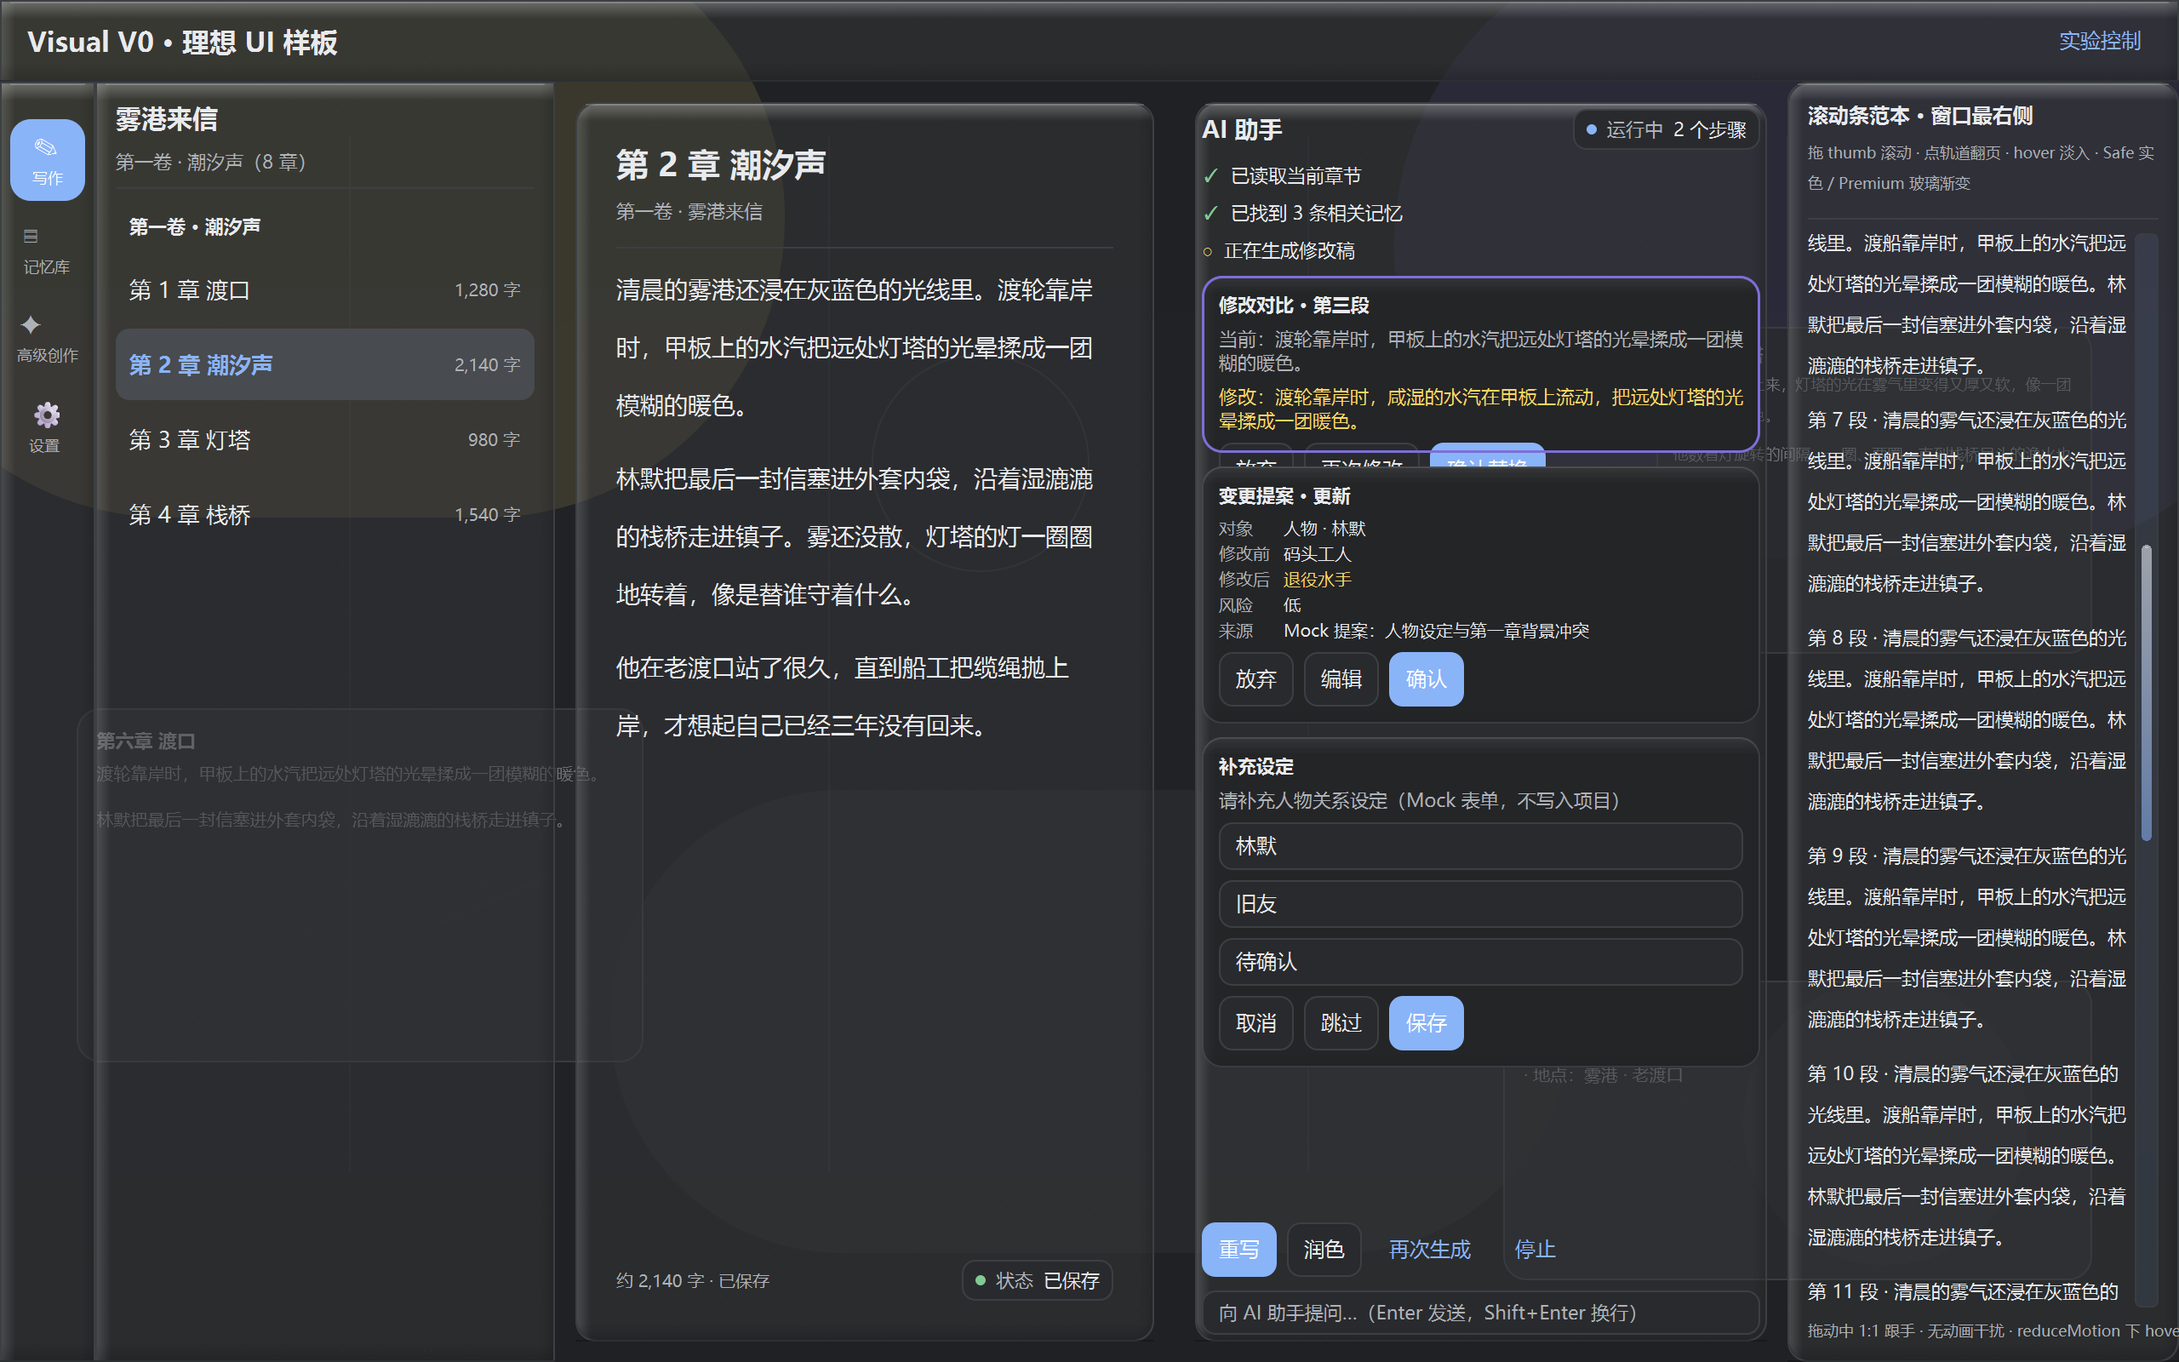
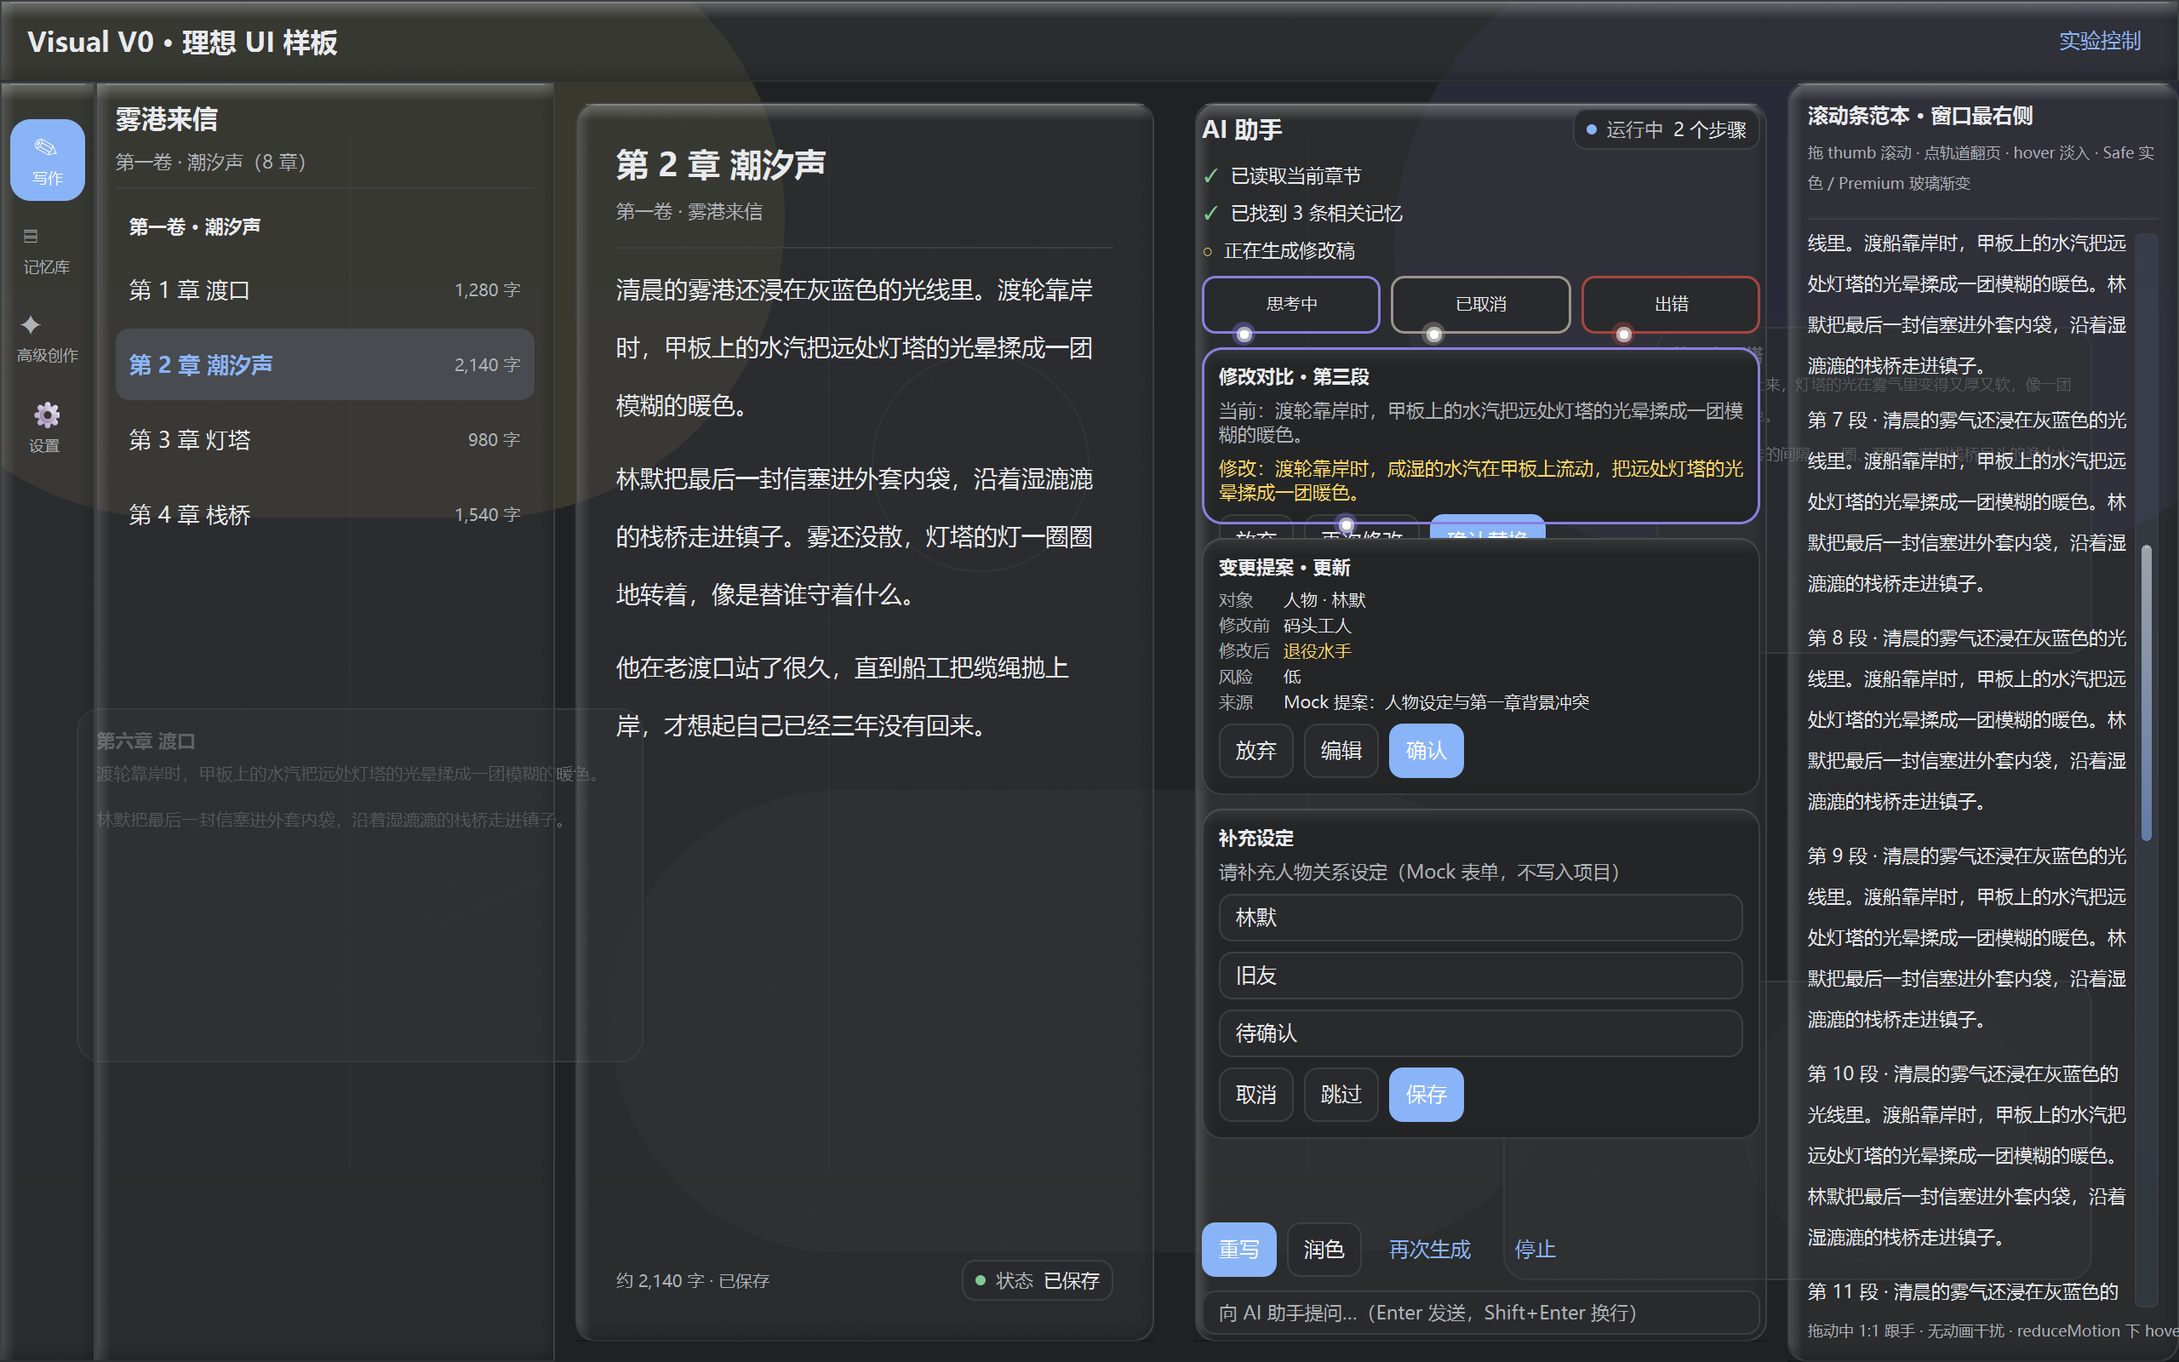
feat(frontend): comet highlight orbiting the AI state glow border
User request: the colored border around thinking/cancelled/error AI
status cards should carry a brighter whitened point that travels along
the border. Skills applied: animation-vocabulary (orbit / constant-speed
traveling highlight), apple-design (reduced motion = gentler, not zero),
emil-design-eng + review-animations (craft review, verdict Approve).

StreamingGlowBorder gains a three-layer comet (state-color halo + white
mid glow + near-white core) positioned on the rounded-rect perimeter via
a 4-edge/4-arc path function, moved by a 2200ms linear NumberAnimation
through transform.translate bindings (Canvas requestPaint does not
follow animations on software rendering - verified and swapped).
reduceMotion freezes the comet. Lab adds thinking/cancelled/error state
cards so all three states show the effect.

Fixed a real path bug (corner arcs used the start-corner center, causing
a fold-back at ~0.33 of the lap). Tests: all three states run the comet,
path stays on the border/continuous/closed over the full lap, and
reduceMotion stops it. 182 passed, ruff/mypy clean.

Changed region(s): [[0.5312, 0.2188, 0.8125, 0.8438]]

diff --git a/src/ai_novel_studio/ui_qml/qml/effects/StreamingGlowBorder.qml b/src/ai_novel_studio/ui_qml/qml/effects/StreamingGlowBorder.qml
@@ -4,6 +4,13 @@ import QtQuick
 // 1.5px hairline around the *currently active* Agent card. One or two live
 // instances at most; success/error/cancelled snap to their static state color.
 // reduceMotion degrades to a static highlight (no movement, no flicker).
+//
+// Comet highlight (user request, glassmorphism-ui-log.md §22): a brighter,
+// whitened point travels along the border at constant speed, one lap per
+// ~2.2s, for thinking/cancelled/error states. The core is near-white and the
+// halo blends the state color so it reads as light running around the edge.
+// reduceMotion keeps a single static highlight at the top edge (gentler, not
+// zero — apple-design §14).
 Item {
     id: root
 
@@ -12,7 +19,11 @@ Item {
     property real radius: 12
     property real glowWidth: 1.5
 
-    readonly property bool reduce: Facade.reduceMotion
+    // Guarded like AppButton: the Facade context property can be null during
+    // early binding; `=== null` is unreliable for QObject context values, so
+    // use typeof + truthiness (see §18.2).
+    readonly property bool reduce:
+        typeof Facade !== "undefined" && Facade ? Facade.reduceMotion : false
     readonly property bool running:
         root.active && !root.reduce && root.visible && root.state === ""
     // Test/behavior hook: expose whether the drift animation is live so QML
@@ -20,6 +31,97 @@ Item {
     readonly property bool animationRunning: glowAnim.running
     // Test/behavior hook: expose the live border color.
     readonly property color frameColor: frame.border.color
+    // Test/behavior hook: whether the comet lap animation is live.
+    readonly property bool cometAnimRunning: cometAnim.running
+    // Test/behavior hook: whether the comet should travel (visible + active +
+    // motion allowed).
+    readonly property bool cometRunning:
+        root.active && !root.reduce && root.visible
+
+    // Comet progress 0..1 (one full lap around the rounded-rect border).
+    // Exposed so tests can assert the path function and screenshots can park
+    // the comet at a known position.
+    property real cometProgress: 0.0
+    property real cometCoreRadius: 2.2
+    property real cometHaloRadius: 7
+    property int cometDuration: 2200
+    // Test hook: how many times the comet canvas repainted.
+    // Comet visual position (card-local), driven by property bindings so the
+    // render pipeline repaints on every progress change without a manual
+    // requestPaint (which does not follow animations on software rendering).
+    readonly property real cometVisualX: root.cometPosition(root.cometProgress).x
+    readonly property real cometVisualY: root.cometPosition(root.cometProgress).y
+
+    // Path sampling: split the rounded-rect perimeter into segments and walk
+    // them; returns the point at `progress` (0..1) on the border centerline.
+    // Pure functions on the root so tests can call them from this scope.
+    function pathPoint(t, w, h, r) {
+        const pi = Math.PI
+        const straight = Math.max(0, w - 2 * r)
+        const vertical = Math.max(0, h - 2 * r)
+        const arc = (pi / 2) * r
+        const segs = [
+            straight, arc, vertical, arc,
+            straight, arc, vertical, arc
+        ]
+        const perimeter = segs[0] + segs[1] + segs[2] + segs[3]
+            + segs[4] + segs[5] + segs[6] + segs[7]
+        let remaining = (t * perimeter) % perimeter
+        let index = 0
+        while (index < 8 && remaining > segs[index]) {
+            remaining -= segs[index]
+            index += 1
+        }
+        const frac = segs[index] > 0 ? remaining / segs[index] : 0
+        const corners = [
+            { x: r, y: r },           // top-left center
+            { x: w - r, y: r },       // top-right center
+            { x: w - r, y: h - r },   // bottom-right center
+            { x: r, y: h - r }        // bottom-left center
+        ]
+        const cornerAngles = [
+            { from: -pi / 2, to: 0 },       // top-left -> top-right arc
+            { from: 0, to: pi / 2 },        // top-right -> bottom-right
+            { from: pi / 2, to: pi },       // bottom-right -> bottom-left
+            { from: pi, to: 3 * pi / 2 }    // bottom-left -> top-left
+        ]
+        // The arc segments follow their *destination* corner: seg1 ends at the
+        // top-right corner, seg3 at bottom-right, seg5 at bottom-left, seg7
+        // back at top-left. Using the start corner made the first arc double
+        // back to the top-left (visible fold-back at ~0.33 of the lap).
+        const cornerIndex = (Math.floor(index / 2) + 1) % 4
+        const c = corners[cornerIndex]
+        if (index % 2 === 1) {
+            const a = cornerAngles[cornerIndex]
+            const angle = a.from + (a.to - a.from) * frac
+            return Qt.point(
+                c.x + r * Math.cos(angle),
+                c.y + r * Math.sin(angle)
+            )
+        }
+        if (index === 0) {
+            return Qt.point(r + straight * frac, 0)
+        }
+        if (index === 2) {
+            return Qt.point(w, r + vertical * frac)
+        }
+        if (index === 4) {
+            return Qt.point(w - r - straight * frac, h)
+        }
+        return Qt.point(0, h - r - vertical * frac)
+    }
+
+    function cometPosition(progress) {
+        const w = root.width
+        const h = root.height
+        const r = Math.min(root.radius, w / 2, h / 2)
+        return root.pathPoint(
+            Math.max(0, Math.min(1, progress)),
+            w,
+            h,
+            r
+        )
+    }
 
     Rectangle {
         id: frame
@@ -66,5 +168,65 @@ Item {
             duration: Theme.tokens.motion.glowCycle / 2
             easing.type: Easing.InOutSine
         }
+    }
+
+    // The comet: a bright whitened point traveling along the border. Built
+    // from three concentric circles (halo / mid / white core) and moved via a
+    // transform.translate driven by bindings — the render pipeline repaints
+    // automatically (a Canvas requestPaint does not follow animations on
+    // software rendering), no layout property animates and the loop is
+    // constant-speed (linear).
+    Item {
+        id: cometVisual
+        objectName: "streamingComet"
+        width: root.cometHaloRadius * 2
+        height: root.cometHaloRadius * 2
+        visible: root.active
+
+        transform: Translate {
+            id: cometTranslate
+            x: root.cometVisualX - cometVisual.width / 2
+            y: root.cometVisualY - cometVisual.height / 2
+        }
+
+        // Outer halo: state color at low alpha.
+        Rectangle {
+            anchors.fill: parent
+            radius: width / 2
+            color: Qt.rgba(
+                root.staticColor.r,
+                root.staticColor.g,
+                root.staticColor.b,
+                0.40
+            )
+        }
+        // Mid glow: whitened state color, brighter toward the core.
+        Rectangle {
+            anchors.centerIn: parent
+            width: root.cometHaloRadius * 1.15
+            height: root.cometHaloRadius * 1.15
+            radius: width / 2
+            color: Qt.rgba(1, 1, 1, 0.55)
+        }
+        // Bright near-white core: the 泛白 point of the highlight.
+        Rectangle {
+            anchors.centerIn: parent
+            width: root.cometCoreRadius * 2
+            height: root.cometCoreRadius * 2
+            radius: width / 2
+            color: "white"
+        }
+    }
+
+    NumberAnimation {
+        id: cometAnim
+        target: root
+        property: "cometProgress"
+        from: 0
+        to: 1
+        duration: root.cometDuration
+        loops: Animation.Infinite
+        running: root.cometRunning
+        easing.type: Easing.Linear
     }
 }

diff --git a/src/ai_novel_studio/ui_qml/qml/VisualLab.qml b/src/ai_novel_studio/ui_qml/qml/VisualLab.qml
@@ -452,6 +452,48 @@ ApplicationWindow {
                         }
                     }
 
+                    // AI state glow showcase: thinking / cancelled / error each
+                    // carry the colored border plus a bright whitened comet
+                    // traveling along the border (user request, §22).
+                    RowLayout {
+                        Layout.fillWidth: true
+                        spacing: 6
+
+                        Repeater {
+                            model: [
+                                { key: "thinking", label: "思考中", state: "" },
+                                { key: "cancelled", label: "已取消", state: "cancelled" },
+                                { key: "error", label: "出错", state: "error" }
+                            ]
+                            delegate: Item {
+                                Layout.fillWidth: true
+                                Layout.preferredHeight: 34
+
+                                Rectangle {
+                                    anchors.fill: parent
+                                    radius: Theme.tokens.radius.r8
+                                    color: Theme.tokens.color.bgSurface
+                                    border.color: Theme.tokens.color.border
+                                    border.width: 1
+
+                                    Text {
+                                        anchors.centerIn: parent
+                                        text: modelData.label
+                                        font.pixelSize: 10
+                                        color: Theme.tokens.color.textPrimary
+                                    }
+                                }
+                                StreamingGlowBorder {
+                                    objectName: "labStateGlow-" + modelData.key
+                                    anchors.fill: parent
+                                    radius: Theme.tokens.radius.r8
+                                    active: true
+                                    state: modelData.state
+                                }
+                            }
+                        }
+                    }
+
                     // Active diff card with streaming glow (inside the panel).
                     Item {
                         Layout.fillWidth: true

diff --git a/tests/ui_qml/test_visual_lab.py b/tests/ui_qml/test_visual_lab.py
@@ -5,7 +5,7 @@ from pathlib import Path
 import pytest
 from PySide6.QtCore import QMetaObject, QObject, QUrl, Slot
 from PySide6.QtGui import QColor
-from PySide6.QtQml import QQmlApplicationEngine
+from PySide6.QtQml import QQmlApplicationEngine, QQmlExpression
 from PySide6.QtQuick import QQuickItem, QQuickWindow
 from pytestqt.qtbot import QtBot
 
@@ -747,9 +747,98 @@ def test_streaming_glow_degrades_with_reduce_motion(qtbot: QtBot) -> None:
     assert glow is not None
 
     assert glow.property("animationRunning") is True
+    assert bool(glow.property("cometRunning")) is True
+    assert bool(glow.property("cometAnimRunning")) is True
     facade.setReduceMotion(True)
     qtbot.waitUntil(lambda: glow.property("animationRunning") is False)
     assert glow.property("frameColor") == "#7C6FD8"  # static thinkingA
+    assert bool(glow.property("cometRunning")) is False
+    assert bool(glow.property("cometAnimRunning")) is False
+
+
+def test_state_glow_showcase_runs_comet_on_all_states(qtbot: QtBot) -> None:
+    """thinking / cancelled / error state cards each show the colored border
+    and the traveling bright comet (user request: all three states)."""
+    _, _, _, window = _load_lab(qtbot)
+    content = _content(window)
+    for key in ("thinking", "cancelled", "error"):
+        glow = _find_item(content, "labStateGlow-" + key)
+        assert glow is not None, f"missing labStateGlow-{key}"
+        comet = _find_item(glow, "streamingComet")
+        assert comet is not None, f"{key}: comet layer missing"
+        assert glow.property("active") is True
+        assert bool(glow.property("cometRunning")) is True, key
+        assert bool(glow.property("cometAnimRunning")) is True, key
+        assert comet.property("visible") is True
+
+
+def test_comet_path_follows_rounded_rect_border(qtbot: QtBot) -> None:
+    """The comet position function stays on the rounded-rect border for the
+    whole lap, visits all four edges, and closes the loop."""
+    engine, _, _, window = _load_lab(qtbot)
+    qtbot.wait(250)  # offscreen layout: card geometry settles late
+    glow = _find_item(_content(window), "labStateGlow-thinking")
+    assert glow is not None
+    assert float(glow.property("width")) > 0, "card width not laid out"
+    assert float(glow.property("height")) > 0, "card height not laid out"
+
+    def coord(expression_text: str) -> float:
+        expression = QQmlExpression(engine.rootContext(), glow, expression_text)
+        value = expression.evaluate()
+        assert value is not None and value[0] is not None, (
+            f"{expression_text} failed: {value}"
+        )
+        return float(value[0])
+
+    def pos(p: float) -> tuple[float, float]:
+        return (
+            coord(f"cometPosition({p}).x"),
+            coord(f"cometPosition({p}).y"),
+        )
+
+    width = float(glow.property("width"))
+    height = float(glow.property("height"))
+    radius = float(glow.property("radius"))
+
+    edges_seen = {"top": False, "right": False, "bottom": False, "left": False}
+    previous = None
+    for step in range(51):
+        p = pos(step / 50)
+        x, y = p
+        assert -0.5 <= x <= width + 0.5, p
+        assert -0.5 <= y <= height + 0.5, p
+        # Border band = the four straight edges plus the corner arcs; the arc
+        # coordinates bend inward from the edges, so "on border" means within
+        # radius+1 of at least one side.
+        near_border = (
+            x <= radius + 1.0
+            or x >= width - radius - 1.0
+            or y <= radius + 1.0
+            or y >= height - radius - 1.0
+        )
+        assert near_border, f"off border at {step / 50}: {p}"
+        if abs(y) < 1.0 and radius < x < width - radius:
+            edges_seen["top"] = True
+        if abs(x - width) < 1.0 and radius < y < height - radius:
+            edges_seen["right"] = True
+        if abs(y - height) < 1.0 and radius < x < width - radius:
+            edges_seen["bottom"] = True
+        if abs(x) < 1.0 and radius < y < height - radius:
+            edges_seen["left"] = True
+        if previous is not None:
+            # Motion is continuous: consecutive samples never jump.
+            # A sample step is ~5px of perimeter; the corner arcs project up
+            # to ~12px of x-change per step at the tangent, so 20 is a safe
+            # continuity bound.
+            assert abs(x - previous[0]) < 20 and abs(y - previous[1]) < 20, (
+                f"jump at {step / 50}: {previous} -> {p}"
+            )
+        previous = p
+
+    assert all(edges_seen.values()), f"edges not all visited: {edges_seen}"
+    p0 = pos(0.0)
+    p1 = pos(1.0)
+    assert abs(p0[0] - p1[0]) < 0.01 and abs(p0[1] - p1[1]) < 0.01
 
 
 def test_visual_quality_cycles_safe_balanced_premium(qtbot: QtBot) -> None:
